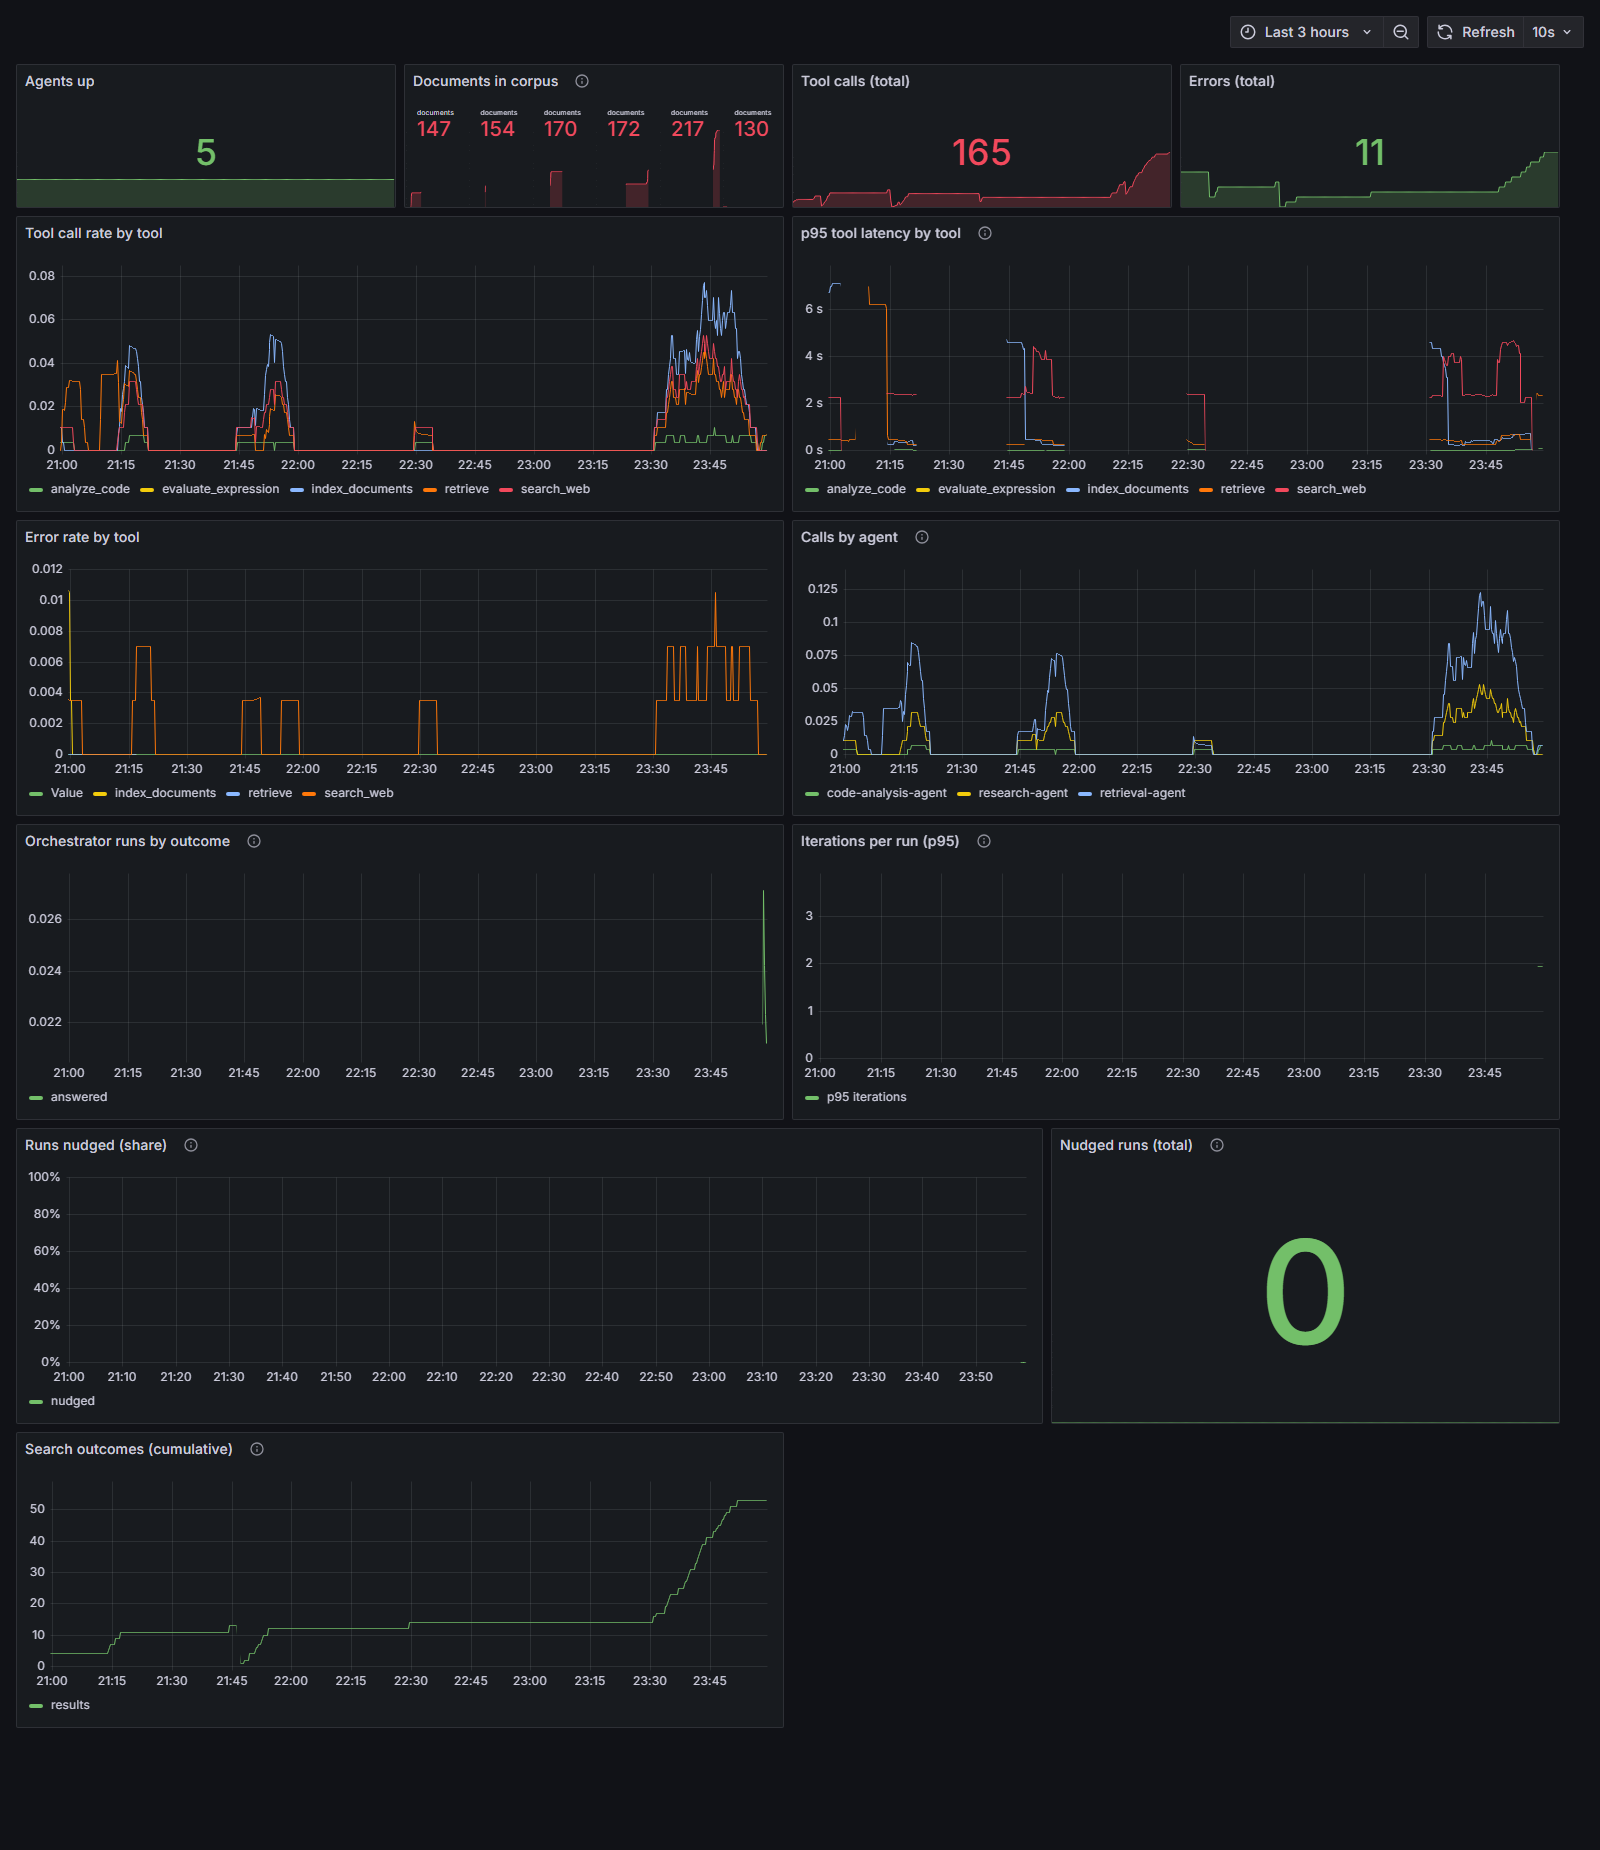
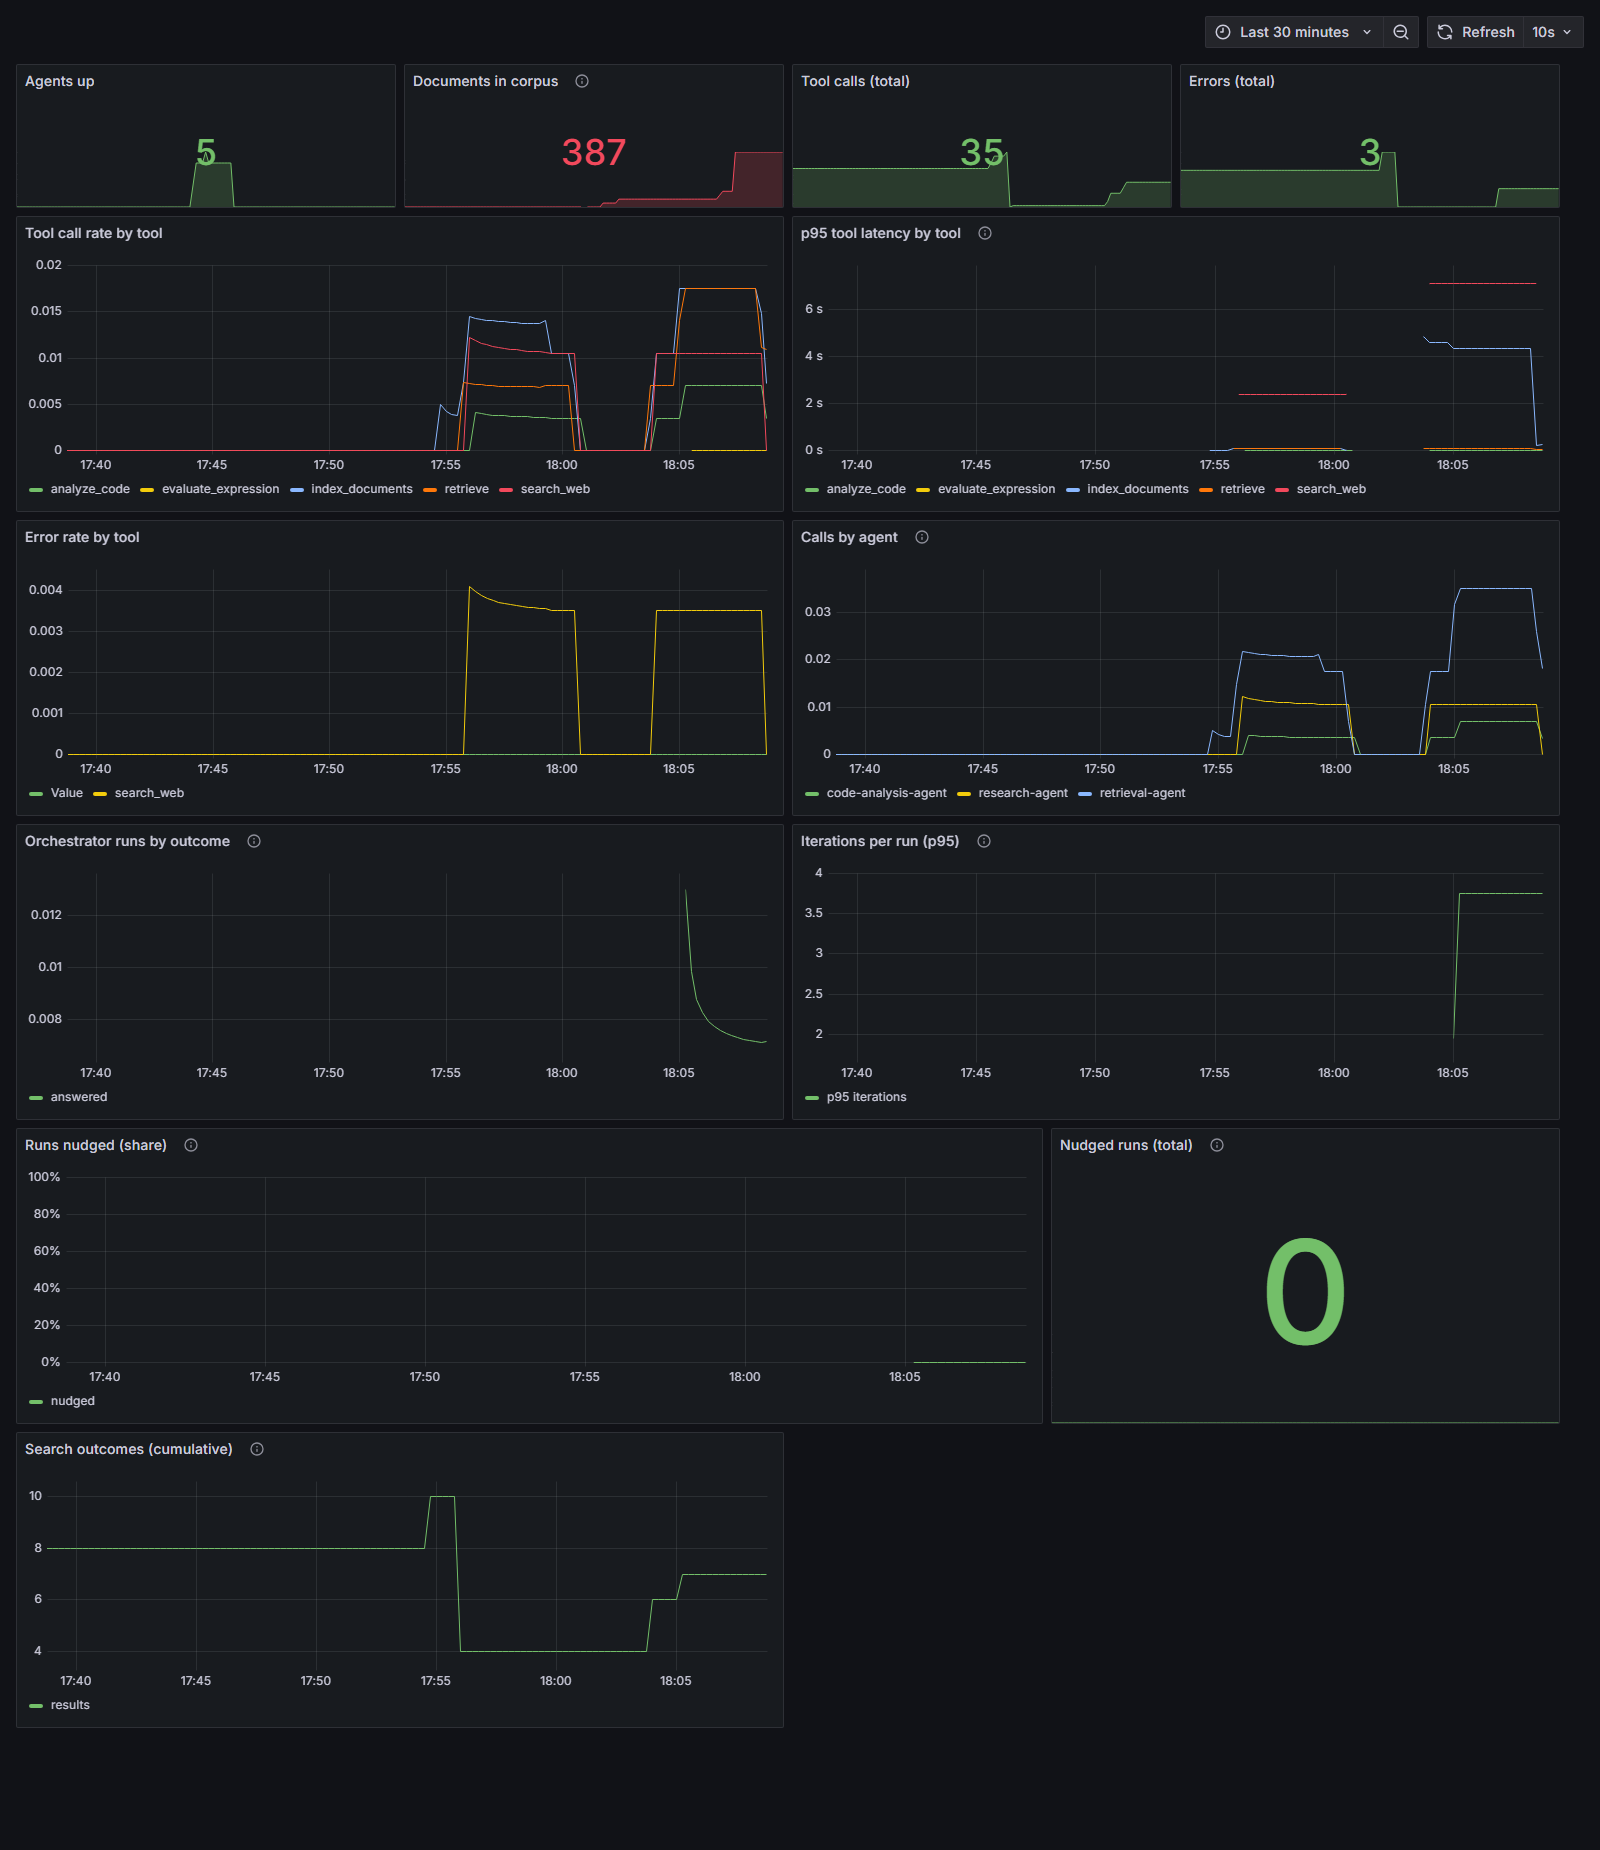
Refresh the dashboard image, and fix what it exposed
The committed screenshot predated the search-outcome panel having data,
the provenance work and tracing, so the README showed a dashboard that no
longer matched a fresh deploy.

Taking it properly meant following the runbook's own precondition: drive
runs through the DEPLOYED orchestrator first, because the eval harness
runs the graph in-process and never touches it, and the pod's counters
reset when it restarts. Five runs, then a thirty-minute window rather
than three hours - the cluster had been stopped most of the day, so a
three-hour window put every line in the last inch of the frame and
reported activity as a spike at the edge.

Looking at the result rather than just filing it turned up two panels
that misreport.

"Documents in corpus" plotted one stat per Prometheus series and showed
three totals - 373, 373, 387 - which are stale instance labels left by
pod restarts, not three corpora. It takes the max now.

"Search outcomes (cumulative)" visibly falls, which a cumulative counter
cannot do. It sums across two research-agent replicas and a restart
resets one to zero, so the total drops until the new pod catches up. The
query is right and the picture is confusing, so the description now says
what a downward step means.

Publishing the image without those fixes would have shipped a dashboard
that says three things about one corpus and shows a counter going
backwards.

diff --git a/README.md b/README.md
@@ -178,10 +178,17 @@ Prometheus and Grafana deploy with everything else.
 
 A real capture of the running stack, not a mock-up — the dashboard is
 provisioned from a ConfigMap, so this is what comes up on a fresh deploy. The
-orchestrator panels are sparse because only a handful of runs went through the
-deployed service inside that window; the tool panels are busier because the
-evaluation harness had just run. `docs/RUNBOOK.md` has the one-line command that
-regenerates this image.
+window is thirty minutes and holds five runs driven through the deployed
+orchestrator, which is why the tool and agent panels have shape rather than a
+single spike at the edge. `docs/RUNBOOK.md` has the command that regenerates it.
+
+Two panels were corrected while taking this. "Documents in corpus" plotted one
+number per Prometheus series and so showed three different totals, all of them
+stale instances left by pod restarts; it takes the `max` now, because there is
+one corpus. And "Search outcomes" can visibly *fall*, which a cumulative counter
+should never do — it sums across two research-agent replicas, and a restart
+resets one to zero. The panel says so rather than leaving a reader to work out
+why a total went backwards.
 
 Grafana is behind the ingress at `http://localhost:18080/grafana/` — no
 port-forward — with its datasource and dashboard already provisioned.
